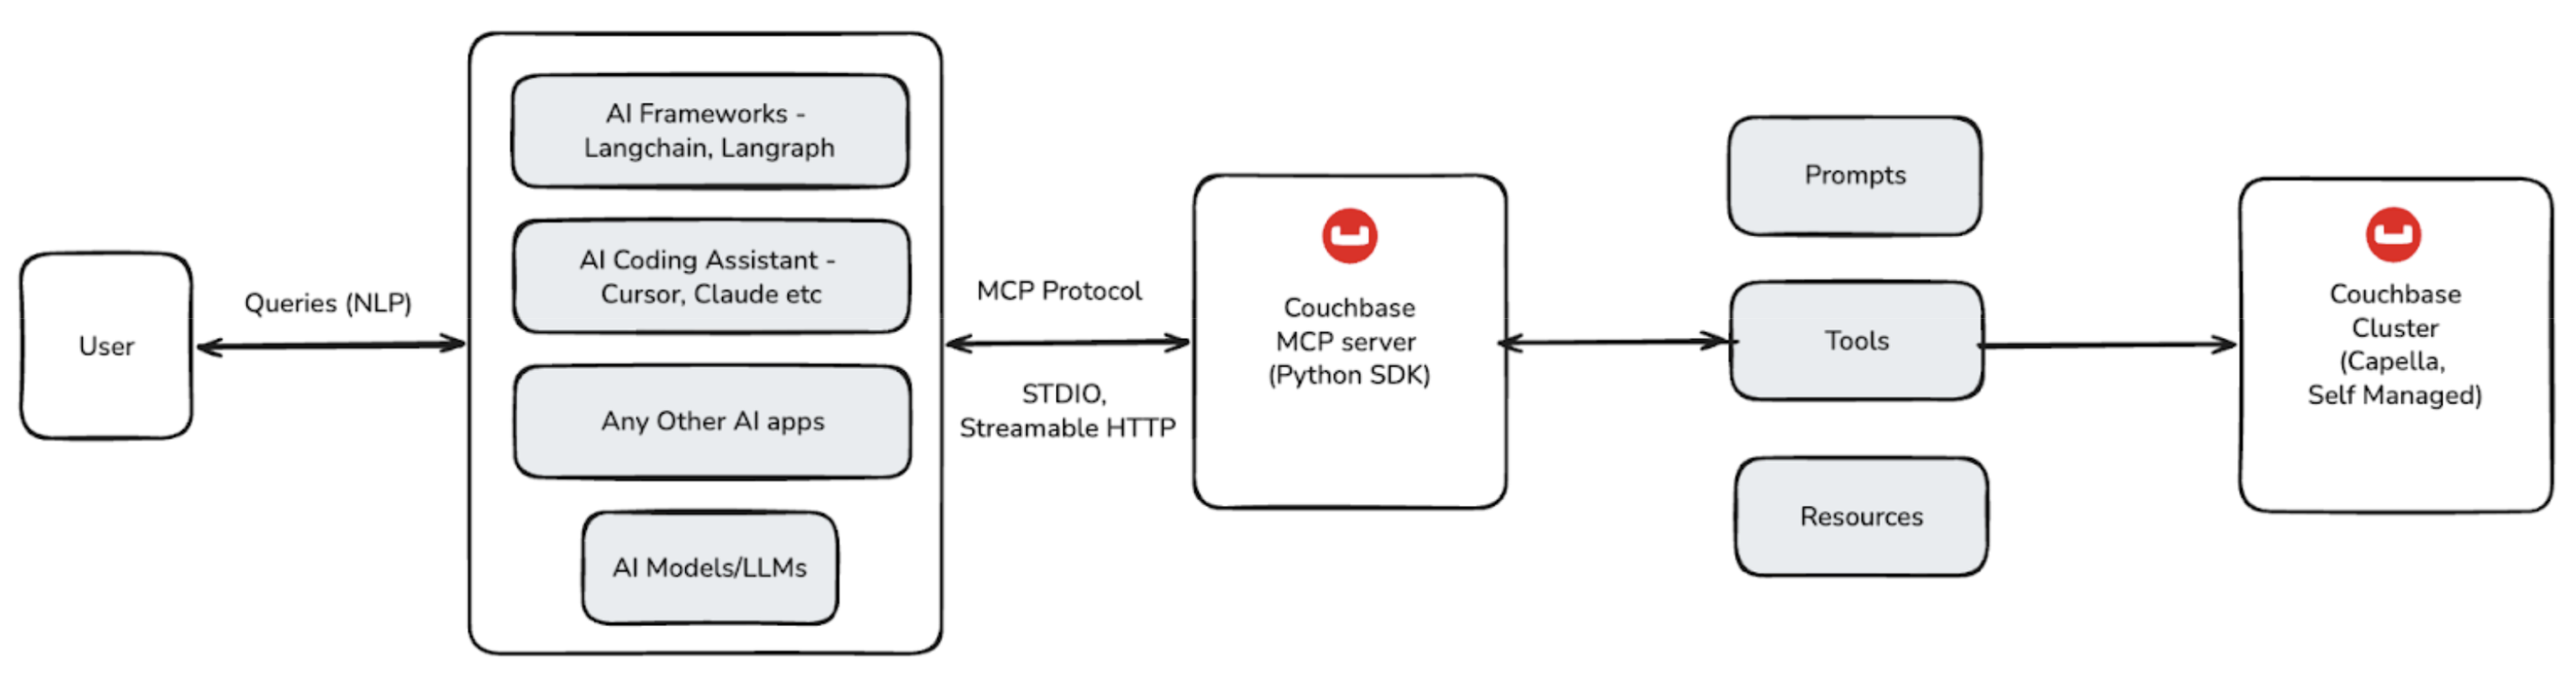
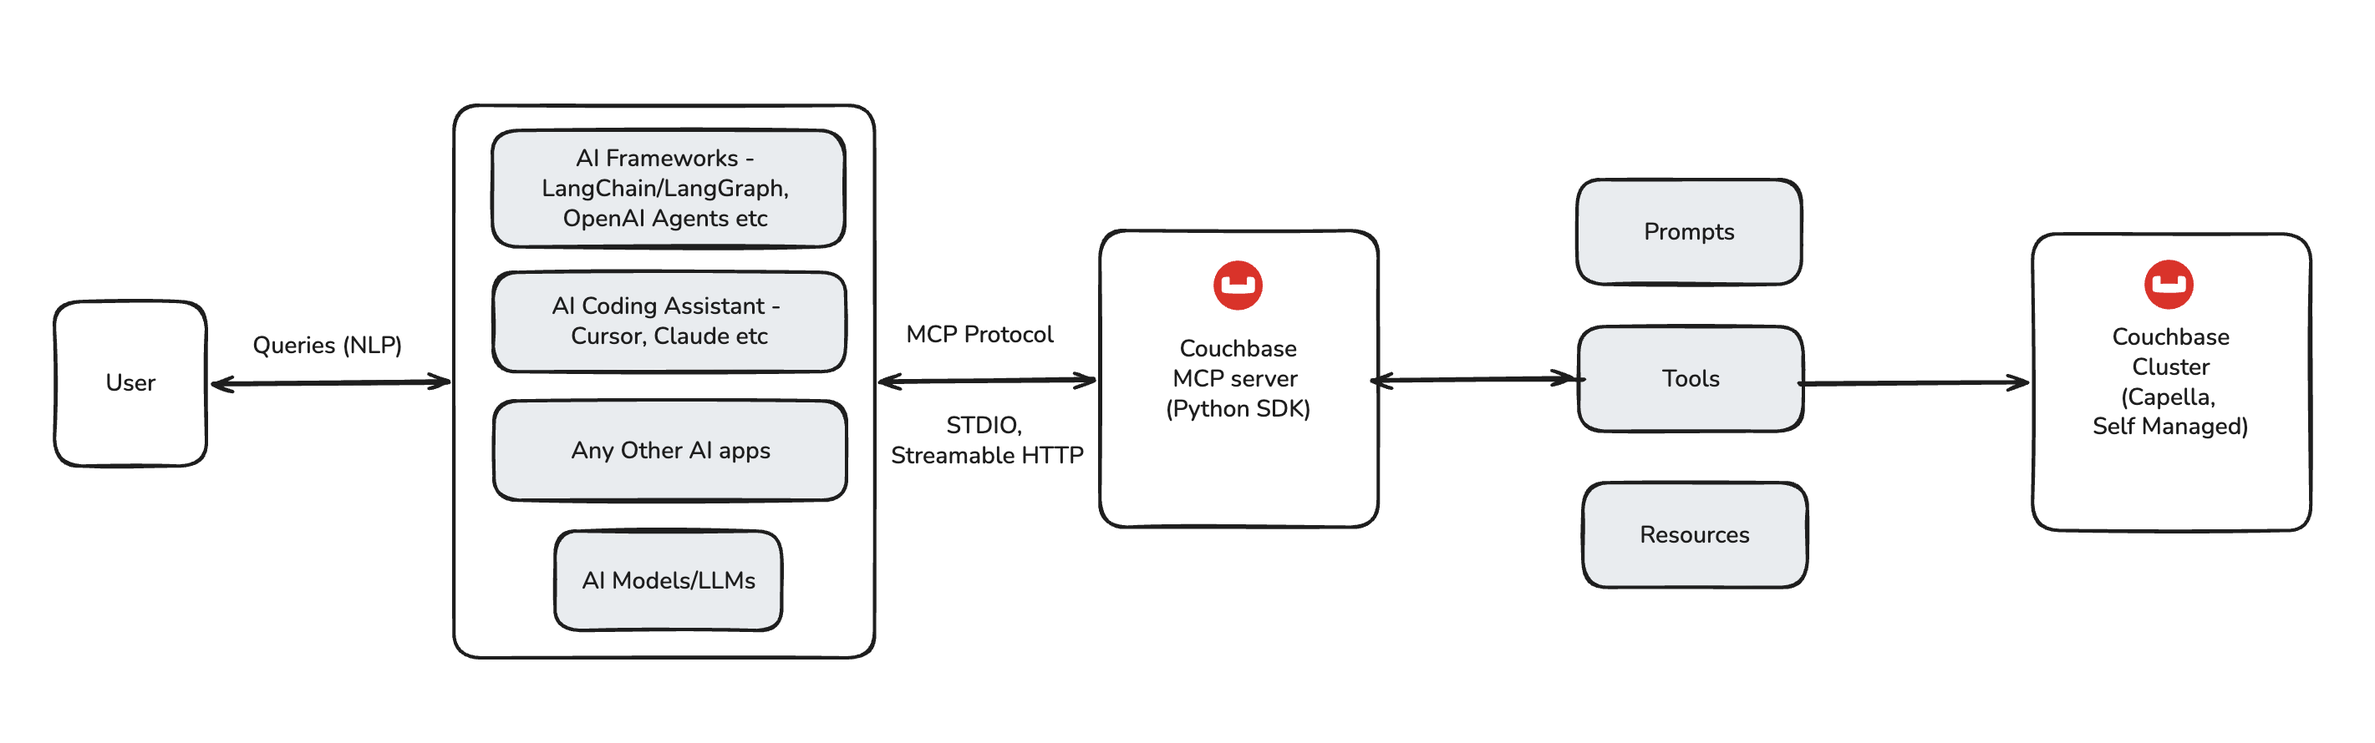
Add confirmation required formats, update explain tool desc, new architecture diagram
- Add Supported Formats section (comma-separated + file path) to Confirmation Required page
- Consolidate limitations into single point with disabled_tools/read-only context
- Update warning with explicit example (delete_document_by_id)
- Update explain_sql_plus_plus_query description on Tools page
- Add explain_sql_plus_plus_query to Overview tools table
- Add Factory Registry option (Option 3) to Quick Start
- Replace architecture diagram with updated version

diff --git a/website/docs/configuration/06-confirmation-required.md b/website/docs/configuration/06-confirmation-required.md
@@ -38,13 +38,47 @@ Full functionality requires client support for [elicitation](https://modelcontex
 }
 ```
 
+## Supported Formats
+
+### Comma-Separated List
+
+```bash
+# Environment variable
+CB_MCP_CONFIRMATION_REQUIRED="delete_document_by_id, upsert_document_by_id"
+
+# Command line
+uvx couchbase-mcp-server --confirmation-required "delete_document_by_id, upsert_document_by_id"
+```
+
+### File Path (One Tool Per Line)
+
+```bash
+# Environment variable
+CB_MCP_CONFIRMATION_REQUIRED=confirmation_required_tools.txt
+
+# Command line
+uvx couchbase-mcp-server --confirmation-required confirmation_required_tools.txt
+```
+
+File format example (`confirmation_required_tools.txt`):
+
+```text
+# Write operations
+upsert_document_by_id
+delete_document_by_id
+
+# Replace operations
+replace_document_by_id
+```
+
+Lines starting with `#` are treated as comments and ignored.
+
 ## Important Limitations
 
-- Setting `CB_MCP_CONFIRMATION_REQUIRED` for a tool that **didn't load** has no impact, as no confirmation is needed for unloaded tools.
-- Tools fail to load when:
-  - Added to the `CB_MCP_DISABLED_TOOLS` configuration, or
-  - Not included in the loaded tools when `CB_MCP_READ_ONLY_MODE` is enabled.
+- Setting `CB_MCP_CONFIRMATION_REQUIRED` for a tool that **didn't load** has no impact, as no confirmation is needed for unloaded tools. A tool doesn't load if it is explicitly listed under the `disabled_tools` configuration or if **READ_ONLY** mode is enabled and the tool is not a **READ_ONLY** tool.
 
 :::warning
-The confirmation_required setting applies **specifically to tools**, not to individual actions (read/update/delete, etc.). Tool execution via SQL++ or the `run_sql_plus_plus_query` tool bypasses confirmation, even if confirmation_required is enabled for that tool.
+The confirmation_required setting applies explicitly to tools, not to individual actions (such as read, update, or delete operations).
+
+For example, if confirmation_required is enabled for the `delete_document_by_id` tool, the MCP server prompts for confirmation only when the MCP client selects that specific tool. No confirmation is requested if the client selects a different tool, such as `run_sql_plus_plus_query`.
 :::

diff --git a/website/docs/tools/01-cluster-health.md b/website/docs/tools/01-cluster-health.md
@@ -56,7 +56,7 @@ Tools for running SQL++ queries, listing indexes, and getting index recommendati
 | Tool | Description |
 |------|-------------|
 | `run_sql_plus_plus_query` | Run a [SQL++ query](https://www.couchbase.com/sqlplusplus/) on a specified scope |
-| `explain_sql_plus_plus_query` | Generate and evaluate an EXPLAIN plan for a SQL++ query, showing the execution plan including operators like scans, joins, and filters used. Aids in performance tuning by revealing index usage, cost estimates, and data access paths |
+| `explain_sql_plus_plus_query` | Provides information about the execution plan for the statement. This includes operators such as scans, joins, and filters; it aids in performance tuning by showing index usage, cost estimates, and data access paths |
 | `list_indexes` | List all indexes in the cluster with their definitions, with optional filtering |
 | `get_index_advisor_recommendations` | Get index recommendations from Couchbase Index Advisor for a given SQL++ query |
 
